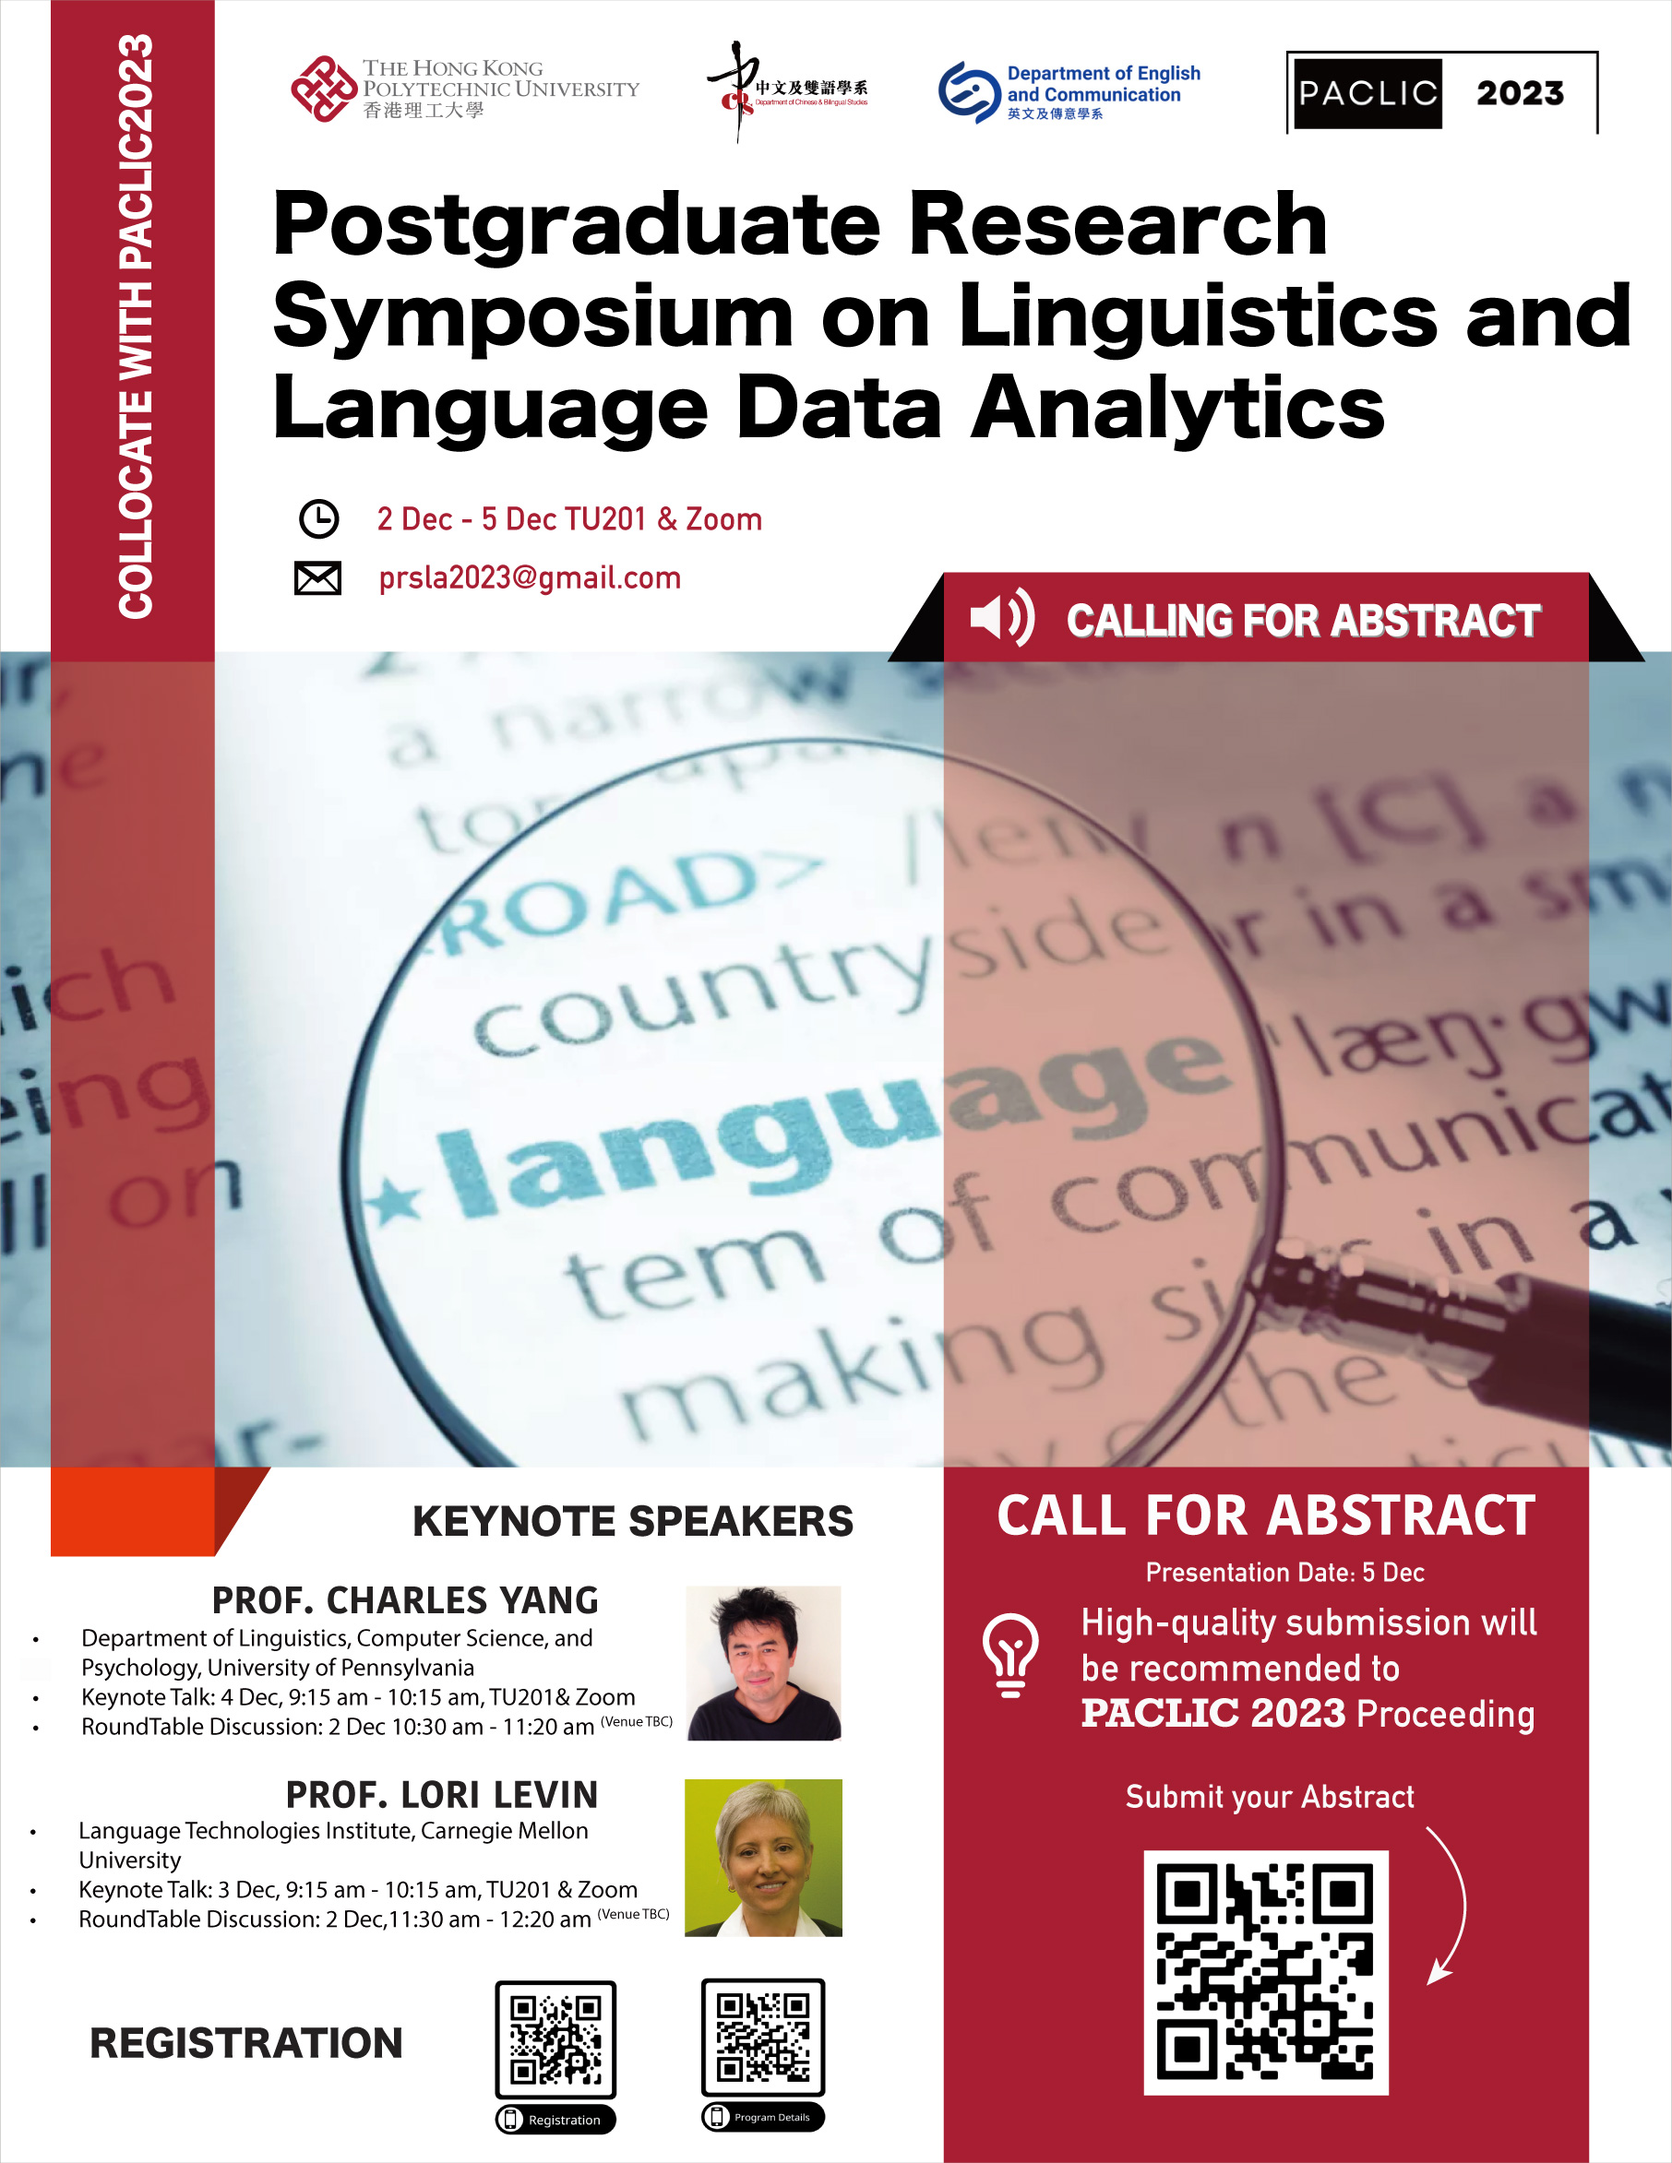
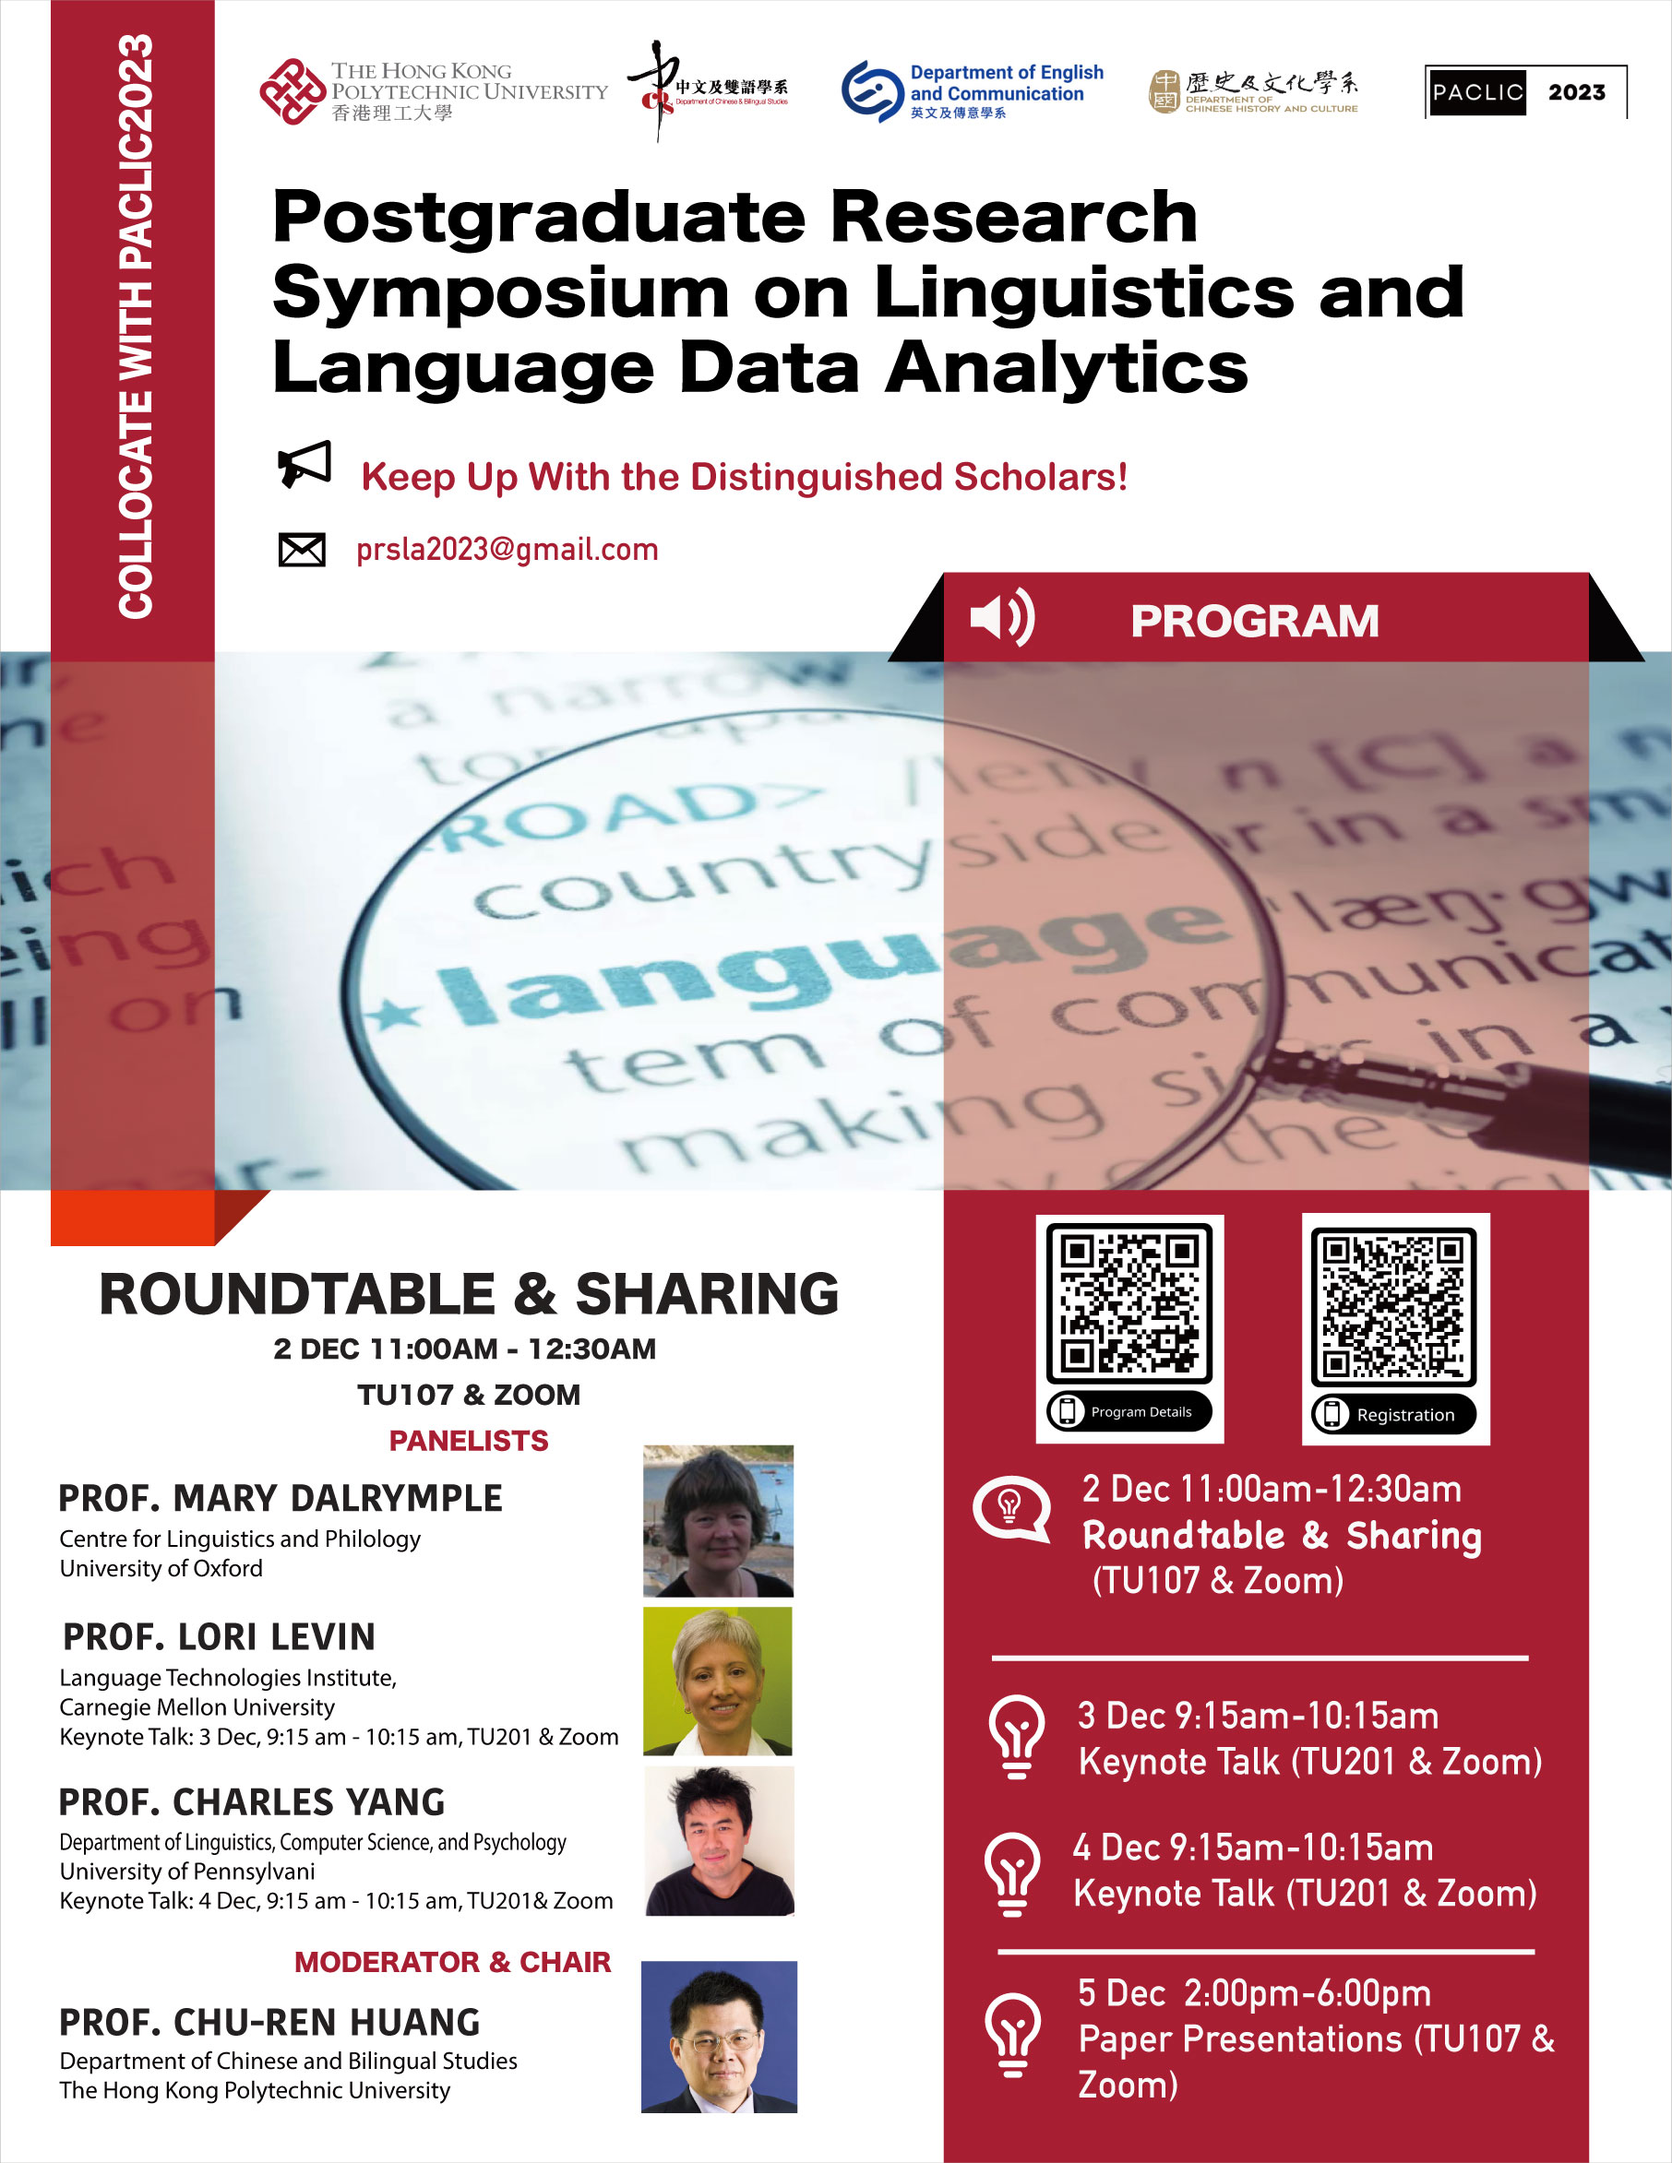
1830

diff --git a/program/index.html b/program/index.html
@@ -91,10 +91,19 @@
     <table>
     <tr>
         <td class="date" rowspan="2">
-            10:30am-12:30am <br> (TU107 & Zoom)
+            11:00am-12:30am <br> (TU107 & Zoom)
         </td>
         <td class="title">
-            Roundtable
+            <p>Roundtable </p>
+        </td>
+    </tr>
+    </table>
+    <table class="plenary">
+    <tr>
+        <td class="abstract">
+            <p>Panelists:<br> Mary Dalrymple (Oxford University), <br> Lori Levin (Carnegie Mellon University) <br> Charles Yang (University of Pennsylvania)</p>
+            <p>Moderator:<br> Chu-Ren Huang (The Hong Kong Polytechnic University)</p>
+            <p>Zoom Link:<br> <a href="https://polyu.zoom.us/j/97206918189?pwd=aU9tU0Vpc3p0R3R">https://polyu.zoom.us/j/97206918189?pwd=aU9tU0Vpc3p0R3R</a></p>
         </td>
     </tr>
     </table>
@@ -109,8 +118,10 @@
                 Keynote Talk
             </td>
         </tr>
+    </table>
+    <table class="plenary">
         <tr>
-            <td class="abstract">
+            <td>
                 <p>
                     <b>Prof. Lori Levin (Carnegie Mellon University)</b> (Chair: Kathleen Ahrens, The Hong Kong Polytechnic University, Hong Kong)
                 </p>
@@ -133,6 +144,8 @@
                 Keynote Talk
             </td>
         </tr>
+    </table>
+    <table class="plenary">
         <tr>
             <td class="abstract">
                 <p>
@@ -166,6 +179,8 @@
                 Session A: Semantics and Grammar
             </td>
         </tr>
+    </table>
+    <table class="plenary">
         <tr>
             <td class="abstract">
                 <p>Yu Wang: Existence Justifies Reason: A Data Analysis on Chinese Classifiers Based on Eye Tracking and Transformers </p>
@@ -182,6 +197,8 @@
             <td class="title">
                 Session B: Lexicon and Cognition
             </td>
+    </table>
+    <table class="plenary">
         </tr>
         <tr>
             <td class="abstract">
@@ -200,6 +217,8 @@
                 Poster Session
             </td>
         </tr>
+    </table>
+    <table class="plenary">
         <tr>
             <td class="abstract">
                 <p>Hongrui Wang: The Model of Moral Change and Development Stages in Chinese Society ——Based on the Vocabulary Analysis of the 70-year "People's Daily"</p>
